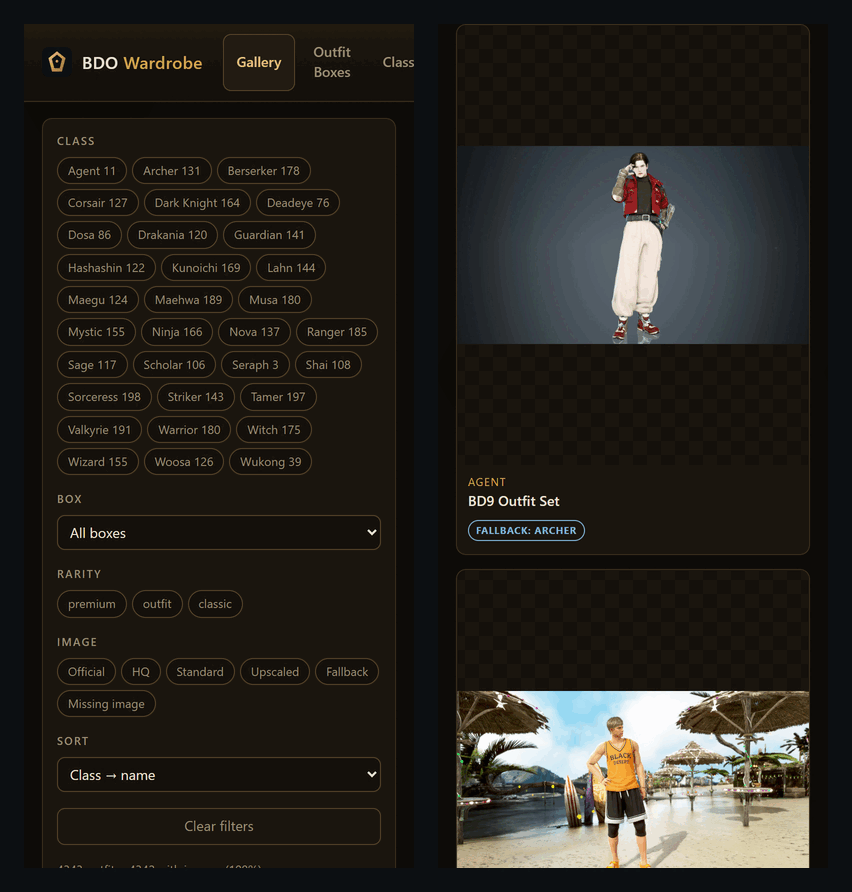
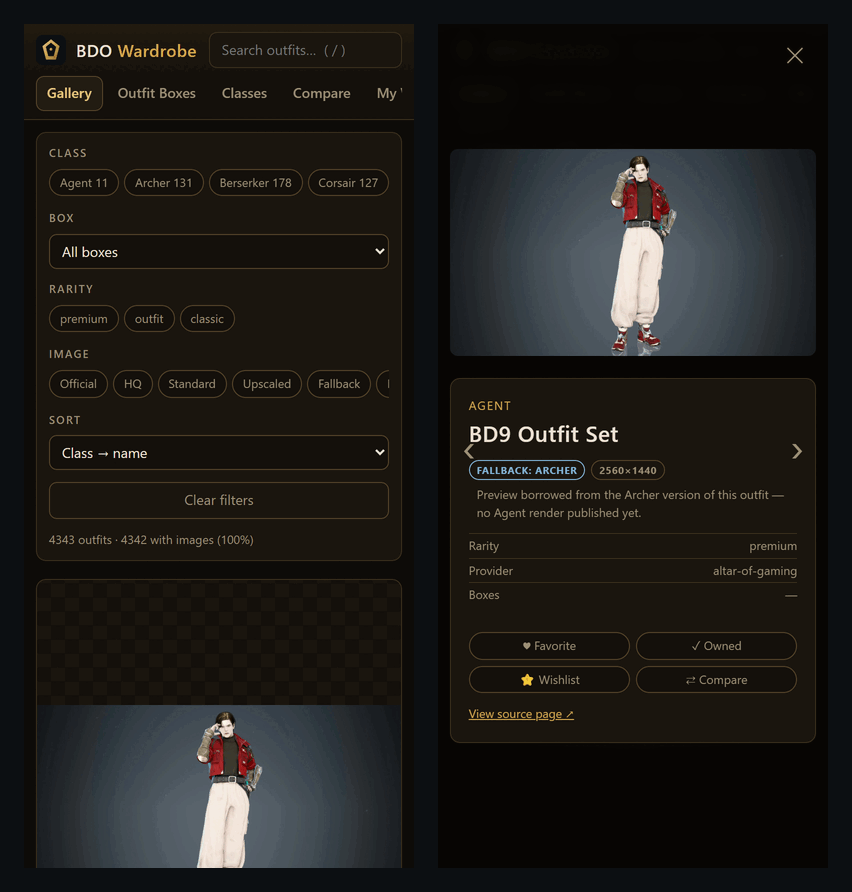
fix: guard mutating routes against cross-site requests; narrow layouts
- server.mjs: every non-GET request must carry the server's own loopback
  Host and, when sent, a same-origin Origin; otherwise HTTP 403. Stops a web
  page in the user's browser from starting the crawler (CSRF / DNS rebinding).
- server.mjs: read the crawl request body properly (fs.readFile threw on the
  stream, so "Re-crawl all" silently ran a missing-only crawl); validate options.
- styles.css: below 960 px the top bar wraps with a scrollable nav row; below
  760 px filter chips scroll in one row. The page fits from 390 px up and card
  taps land on phones; desktop is unchanged.
- verify.mjs: 13 -> 20 checks (guard against a stub crawler, phone, tablet).
- README, CHANGELOG, phone and verify screenshots refreshed from real runs.

diff --git a/public/styles.css b/public/styles.css
@@ -192,3 +192,36 @@ select {
   .lb-stage { flex-direction: column; overflow-y: auto; }
   .lb-info { width: 100%; }
 }
+
+/* Narrow windows, tablets and phones: the topbar must fit the screen. Unwrapped
+   it needs ~935 px; a topbar wider than the viewport widens the layout viewport,
+   the page renders zoomed out and taps land on the filters panel instead of the
+   cards. Brand + search share row one; the nav becomes its own scrollable row. */
+@media (max-width: 960px) {
+  .topbar { flex-wrap: wrap; gap: 8px 12px; padding: 8px 12px; }
+  .topbar-search { flex: 1 1 140px; min-width: 0; }
+  .topbar-search input { width: 100%; }
+  .nav {
+    order: 3; flex: 1 1 100%; min-width: 0;
+    overflow-x: auto; scrollbar-width: none; -webkit-overflow-scrolling: touch;
+  }
+  .nav::-webkit-scrollbar { display: none; }
+  .nav-btn { flex-shrink: 0; white-space: nowrap; padding: 6px 10px; }
+}
+
+/* Phones. */
+@media (max-width: 760px) {
+  main { padding: 12px 12px 32px; }
+  /* Filter chips scroll sideways in one row so the panel stays short and the
+     first cards show on the first screen instead of after a wall of chips. */
+  .filters { gap: 12px; padding: 12px; }
+  .filters .chip-row { flex-wrap: nowrap; overflow-x: auto; scrollbar-width: none; padding-bottom: 2px; }
+  .filters .chip-row::-webkit-scrollbar { display: none; }
+  .filters .chip { flex-shrink: 0; white-space: nowrap; }
+  .lb-info { max-height: none; }
+}
+
+/* Touch screens have no hover: keep the card buttons visible. */
+@media (hover: none) {
+  .card-actions { opacity: 1; }
+}

diff --git a/README.md b/README.md
@@ -39,10 +39,13 @@ cloned.
 <details>
 <summary>On a phone-sized viewport (390x844)</summary>
 
-![BDO Wardrobe at a 390x844 phone viewport: left, the top of the page with the class chips and filters stacked above the gallery and the navigation running off the right edge; right, the single-column card list further down, starting with BD9 Outfit Set labelled FALLBACK: ARCHER](docs/presentation/screenshot-mobile.png)
+![BDO Wardrobe at a 390x844 phone viewport: left, the brand and search on one row, the navigation as a scrollable row below, the filters with one-line scrollable chip rows, and the first card, BD9 Outfit Set, already on the first screen; right, the lightbox opened by tapping that card, labelled FALLBACK: ARCHER with the Favorite, Owned, Wishlist and Compare buttons](docs/presentation/screenshot-mobile.png)
 
-The layout was built for a desktop window. On a phone the filters stack above the
-cards and the top navigation is wider than the screen.
+Below 960 px the top bar wraps (the navigation scrolls sideways instead of widening the
+page); below 760 px the filter chips scroll in one row so the first cards show on the
+first screen; on touch screens the card buttons stay visible. Every view fits from 390
+px up. The verify suite checks that the page is exactly 390 px wide, that tapping a card
+opens the lightbox, and that an 820 px tablet width has no horizontal scroll.
 
 </details>
 
@@ -115,13 +118,18 @@ tools; the shipped catalog already covers everything they found.
 
 ## Verification
 
-`scripts/verify.mjs` is a Playwright end-to-end suite with **13 checks**: boot counts,
+`scripts/verify.mjs` is a Playwright end-to-end suite with **20 checks**: boot counts,
 the academia box, gallery render, lightbox open and real image, arrow navigation,
 favorite persistence, class filter, missing-image filter, boxes view, compare and the
-wardrobe view. It expects the server on `127.0.0.1:7861` and fails on any console or
-page error.
+wardrobe view; four request-guard checks (a foreign `Origin` and a foreign `Host` get
+HTTP 403 and start nothing, GET routes are unchanged, a same-origin crawl request from
+the app page still starts the crawler with its options); two phone checks at 390x844
+(no horizontal scroll, a card tap opens the lightbox) and one at an 820 px tablet width. The guard checks run a
+second server on a free port whose crawler is a stub that only records its arguments,
+so no real crawl starts. It expects the server on `127.0.0.1:7861` and fails on any
+console or page error.
 
-![Terminal: node scripts/verify.mjs against the local server passes all 13 checks, from catalog loads with 4343 outfits, 11 boxes and 4339 imaged, to wardrobe shows favorite, with no console or page errors](docs/presentation/screenshot-verify.png)
+![Terminal: node scripts/verify.mjs against the local server passes all 20 checks, from catalog loads with 4343 outfits, 11 boxes and 4339 imaged, through the four guard checks with HTTP 403 for a foreign Origin and Host, to the phone and tablet layout checks, with no console or page errors](docs/presentation/screenshot-verify.png)
 
 ```powershell
 node server.mjs
@@ -152,7 +160,7 @@ flowchart LR
   UI -->|"export / import"| JSON["wardrobe.json"]
 ```
 
-- **One small server.** `server.mjs` serves `public/` (path-traversal safe) and three JSON endpoints: `/api/health`, `/api/catalog` and `/api/images-state`. A fourth, `POST /api/crawl`, starts the image crawler from the Studio view.
+- **One small server.** `server.mjs` serves `public/` (path-traversal safe) and three JSON endpoints: `/api/health`, `/api/catalog` and `/api/images-state`. A fourth, `POST /api/crawl`, starts the image crawler from the Studio view. Every non-GET request must carry the server's own loopback `Host` (`127.0.0.1`, `localhost` or `[::1]` with its port, or the `HOST` you set) and, when sent, a same-origin `Origin`; anything else gets HTTP 403, so another web page open in your browser cannot start the crawler (cross-site request or DNS rebinding).
 - **Fallbacks are decided on the server.** When a class has no image, `/api/catalog` borrows a gender-matched sibling's render and records `fallbackFrom`, so the badge can say so.
 - **Your marks stay in your browser.** Favorites, owned and wishlist live in `localStorage` under `bdo-wardrobe`; nothing is sent anywhere.
 
@@ -182,6 +190,7 @@ Verified in this tree:
 - `data/images.json`: 4,339 indexed images
 - real UI screenshots under `docs/` and `docs/presentation/`, taken from the app served locally
 - CI workflow `.github/workflows/ci.yml`
+- the 390x844 phone layout and the request guard, both covered by `scripts/verify.mjs`
 - latest GitHub release **v1.0.0**
 
 Not claimed:
@@ -189,7 +198,6 @@ Not claimed:
 - affiliation with Pearl Abyss
 - that `package.json` version `2.0.0` is a GitHub release (it is not; v1.0.0 is the latest tag)
 - that every class has a unique official render for every outfit (fallbacks and missing images are labelled on purpose)
-- a phone layout (see the phone-viewport screenshot above)
 
 ## Data sources and credits
 

diff --git a/CHANGELOG.md b/CHANGELOG.md
@@ -4,6 +4,32 @@ All notable changes to BDO Wardrobe. Versions follow the GitHub release tags.
 
 ## [Unreleased]
 
+These fixes change shipped files; they reach desktop users with the next release zip.
+
+### Fixed
+- **Security:** `POST /api/crawl` accepted requests from any web page open in the
+  browser, so a cross-site request or a DNS-rebinding page could start the image
+  crawler. Every non-GET request now needs the server's own loopback `Host` and, when
+  sent, a same-origin `Origin`; anything else gets HTTP 403. GET routes are unchanged.
+- Studio "Re-crawl all" never re-crawled everything: the server read the request body
+  with `fs.readFile`, which throws on a request stream, so every crawl option was
+  dropped silently. The body is now read properly (4 KB cap) and `all`, `box` and
+  `limit` are validated before they reach the crawler.
+- Phone layout: at 390 px the top bar made the page 935 px wide, the page rendered
+  zoomed out and taps on cards landed on the filters panel (the same overflow hit any
+  window from 761 to 934 px). Below 960 px the top bar wraps with a sideways-scrolling
+  navigation row; below 760 px filter chips scroll in one row; on touch screens card
+  buttons stay visible. Every view now fits from 390 px up; the desktop layout is
+  unchanged.
+
+### Added
+- `scripts/verify.mjs` grows from 13 to 20 checks: a foreign `Origin` and a foreign
+  `Host` get 403 without starting the crawler, GET is unchanged, a same-origin crawl
+  from the app page still starts it with its options (against a stub crawler, so CI
+  never crawls), at 390x844 the page has no horizontal scroll and a card tap opens
+  the lightbox, and an 820 px width has no horizontal scroll. `BDO_WARDROBE_CRAWL_SCRIPT` overrides the crawler path for that test.
+- Phone and verify screenshots in `docs/presentation/` refreshed from the fixed app.
+
 ### Changed
 - README rebuilt around a cover image and real screenshots of the app served locally
   (desktop gallery, lightbox and a phone-sized viewport) plus a captured run of the
